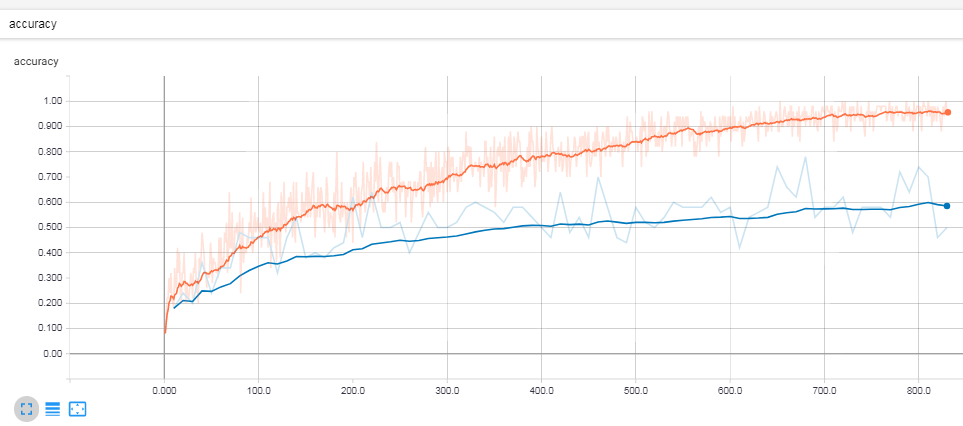
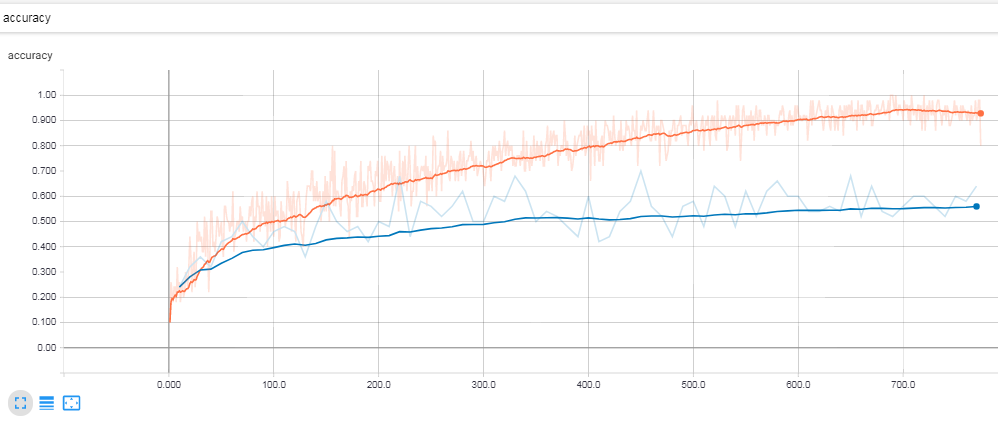
Complete Project2

diff --git a/convnet.py b/convnet.py
@@ -30,8 +30,6 @@ tf.summary.image("input_image", input_placeholder)
 # Subtract off the mean and divide by the variance of the pixels.
 normalized_image = tf.map_fn(lambda frame: tf.image.per_image_standardization(frame), input_placeholder)
 
-#TODO add conv layers here
-
 conv_layer_1 = tf.layers.conv2d(normalized_image,
                                     filters=42,
                                     kernel_size=(3, 3),
@@ -49,8 +47,6 @@ conv_layer_2 = tf.layers.conv2d(conv_layer_1_with_bn,
                                     activation=tf.nn.relu)
 
 conv_layer_2_with_bn = tf.layers.batch_normalization(conv_layer_2, training=True)
-
-#final_conv_layer = normalized_image # change me
 
 pool_layer_1 = tf.layers.max_pooling2d(conv_layer_2_with_bn,
                                            pool_size=(2,2),
@@ -74,18 +70,39 @@ conv_layer_4 = tf.layers.conv2d(conv_layer_3_with_bn,
 
 conv_layer_4_with_bn = tf.layers.batch_normalization(conv_layer_4, training=True)
 
-#final_conv_layer = normalized_image # change me
-
 pool_layer_2 = tf.layers.max_pooling2d(conv_layer_4_with_bn,
                                            pool_size=(2,2),
                                            strides=(2,2))
 
-# convert 3d image to 1d tensor (don't change batch dimension)
-flat_tensor = tf.contrib.layers.flatten(pool_layer_2)
+conv_layer_5 = tf.layers.conv2d(pool_layer_2,
+                                    filters=168,
+                                    kernel_size=(3, 3),
+                                    strides=(1, 1),
+                                    padding='same',
+                                    activation=tf.nn.relu)
 
-#TODO improve fully connected layers
+conv_layer_5_with_bn = tf.layers.batch_normalization(conv_layer_5, training=True)
+
+conv_layer_6 = tf.layers.conv2d(conv_layer_5_with_bn,
+                                    filters=168,
+                                    kernel_size=(3, 3),
+                                    strides=(1, 1),
+                                    padding='same',
+                                    activation=tf.nn.relu)
+
+conv_layer_6_with_bn = tf.layers.batch_normalization(conv_layer_6, training=True)
+
+#final_conv_layer = normalized_image
+
+pool_layer_3 = tf.layers.max_pooling2d(conv_layer_6_with_bn,
+                                           pool_size=(4,4),
+                                           strides=(4,4))
+
+# convert 3d image to 1d tensor (don't change batch dimension)
+flat_tensor = tf.contrib.layers.flatten(pool_layer_3)
+
 ## Neural network hidden layers
-hidden_layer_1 = tf.layers.dense(flat_tensor, 100, activation=tf.nn.relu)
+hidden_layer_1 = tf.layers.dense(flat_tensor, 150, activation=tf.nn.relu)
 
 ## Logit layer
 logits = tf.layers.dense(hidden_layer_1, 10)
@@ -98,10 +115,7 @@ label_one_hot = tf.one_hot(label_placeholder, 10)
 # loss function
 loss = tf.reduce_mean(tf.nn.softmax_cross_entropy_with_logits_v2(labels=label_one_hot, logits=logits))
 
-#TODO choose better backpropagation
 # backpropagation algorithm
-#train = tf.train.GradientDescentOptimizer(0.001).minimize(loss)
-
 train = tf.train.AdamOptimizer().minimize(loss)
 
 accuracy = dataUtils.accuracy(logits, label_one_hot)
@@ -162,5 +176,5 @@ with tf.Session() as sess:
             save_path = saver.save(sess, "model/model.ckpt")
 
         # stop training after 1,000 steps
-        if step_count > 5000:
+        if step_count > 10000:
             break
